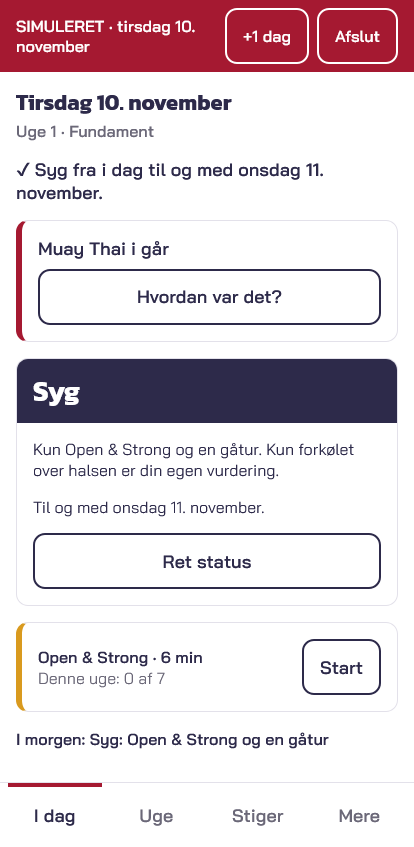
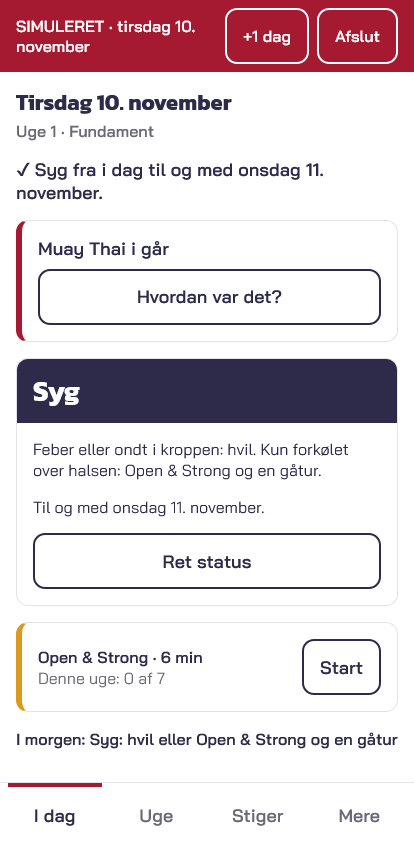
test: a trip corrected shorter, an illness extended with one »Afslut«, the club log on a travel day and a holiday Saturday to Monday (D70)
Claude-Session: https://claude.ai/code/session_01VvEZwGyT4vba1A14M2oTxQ

Changed region(s): [[0.087, 0.5218, 0.8406, 0.5832], [0.3188, 0.8595, 0.9565, 0.8902]]

diff --git a/e2e/status.spec.ts b/e2e/status.spec.ts
@@ -114,9 +114,9 @@ test('PLAN M3 tjekliste 5: »Syg« i to dage viser kun Open & Strong, og »Afslu
   await setStatus(page, 'Syg', '2026-11-11');
   await expect(screen.getByTestId('status-effects').locator('li')).toHaveText([
     'Syg fra i dag til og med onsdag 11. november.',
-    'Alle dage er røde: kun Open & Strong og en gåtur.',
-    'Ugerne under sygdom er ikke gennemførte.',
-    'Kun forkølet over halsen er din egen vurdering.',
+    'Feber eller ondt i kroppen: hvil. Kun forkølet over halsen: Open & Strong og en gåtur.',
+    'Ingen styrkepas og ingen motor de dage.',
+    'Syge- og feriedage gennemfører ikke ugen: den tæller kun med Styrke A, B eller rejsepasset på en anden dag.',
   ]);
   await expect(screen).toContainText('I dag, tirsdag 10. november');
   await expect(screen).toContainText('Onsdag 11. november');
@@ -134,14 +134,18 @@ test('PLAN M3 tjekliste 5: »Syg« i to dage viser kun Open & Strong, og »Afslu
   await expect(screen).toHaveCount(0);
   // I dag comes back at its top, with the »✓« line in sight.
   await expect(savedLine(page, '✓ Syg fra i dag til og med onsdag 11. november.')).toBeInViewport();
-  // Only Open & Strong and a walk: no session to start (R-ILL).
+  // The programme's text: rest with fever, Open & Strong and a walk with a cold – no session (R-ILL).
   await expect(card.locator('h1')).toHaveText('Syg');
-  await expect(card).toContainText('Kun Open & Strong og en gåtur.');
+  await expect(card).toContainText(
+    'Feber eller ondt i kroppen: hvil. Kun forkølet over halsen: Open & Strong og en gåtur.',
+  );
   await expect(card).toContainText('Til og med onsdag 11. november.');
   await expect(card.getByTestId('start-session')).toHaveCount(0);
   await expect(card.getByTestId('status-change')).toHaveText('Ret status');
   await expect(page.getByTestId('os-start')).toBeVisible();
-  await expect(page.locator('.tomorrow')).toHaveText('I morgen: Syg: Open & Strong og en gåtur');
+  await expect(page.locator('.tomorrow')).toHaveText(
+    'I morgen: Syg: hvil eller Open & Strong og en gåtur',
+  );
   await expectClean(page, 'I dag syg');
   await page.screenshot({
     path: 'screenshots/i-dag-syg.png',
@@ -350,6 +354,10 @@ test('rejse viser rejsepasset på Styrke-dagene, og klubben lukket viser kamp-ru
     'Klubben lukket til og med lørdag 14. november',
   ]);
   await expect(items.getByTestId('status-end')).toHaveText(['Afslut', 'Afslut']);
+  await expect(items.locator('.muted')).toHaveText([
+    'Afslut, så gælder den almindelige plan fra i dag, og klubben er stadig lukket.',
+    'Afslut, så har Muay Thai-dagene Muay Thai igen fra i dag.',
+  ]);
   await expectClean(page, 'Status med to statusser');
   await page.screenshot({
     path: 'screenshots/status-liste.png',
@@ -391,7 +399,8 @@ test('S-MOVE-05: »Flyt« tilbyder ingen syge- eller feriedage, men en rejsedag 
   await expect(page.getByTestId('status-effects').locator('li')).toHaveText([
     'Ferie fra lørdag 14. november til og med søndag 15. november.',
     'Hvile: ingen pas, og Open & Strong er valgfri.',
-    'Ugerne er ikke gennemførte. Vil du træne i ferien, så sæt ikke ferie.',
+    'Syge- og feriedage gennemfører ikke ugen: den tæller kun med Styrke A, B eller rejsepasset på en anden dag.',
+    'Vil du træne i ferien, så sæt ikke ferie.',
   ]);
   await page.getByTestId('status-save').click();
   await page.locator('.rest-of-week summary').click();
@@ -400,7 +409,9 @@ test('S-MOVE-05: »Flyt« tilbyder ingen syge- eller feriedage, men en rejsedag 
     'Lørdag: Ferie: hvile',
     'Søndag: Ferie: hvile',
   ]);
-  await expect(page.locator('.tomorrow')).toHaveText('I morgen: Syg: Open & Strong og en gåtur');
+  await expect(page.locator('.tomorrow')).toHaveText(
+    'I morgen: Syg: hvil eller Open & Strong og en gåtur',
+  );
 
   // Only Wednesday as the short version (S-MOVE-05).
   await missed.getByRole('button', { name: 'Flyt', exact: true }).click();
@@ -476,6 +487,172 @@ test('PLAN M3 tjekliste 3: to uger uden pas gentager den sidste gennemførte uge
   await expect(absence).toBeVisible();
   await tab(page, 'Stiger');
   await expect(page.locator('.ladder-row', { hasText: 'Ben · trin 2' })).toBeVisible();
+  expect(await storedEventCount(page)).toBe(stored);
+});
+
+test('M1: en rejse rettet kortere gælder kun til den nye dag, »Afslut« siger, hvad der stadig gælder, og en forlænget sygdom har ét »Afslut« @date', async ({
+  page,
+}) => {
+  await openAt(page, MONDAY_MORNING);
+  await onboard(page);
+  const stored = await storedEventCount(page);
+  await startSimulation(page, '2026-11-10');
+  const card = page.getByTestId('main-card');
+  const status = page.getByTestId('status-card');
+
+  // A trip from Tuesday to Friday 20/11.
+  await page.getByTestId('status-open').click();
+  await setStatus(page, 'Rejse', '2026-11-20');
+  await page.getByTestId('status-save').click();
+  await expect(status.locator('.life-card-title')).toHaveText(
+    'Rejse til og med fredag 20. november',
+  );
+
+  // Wednesday: home on Friday 13 instead. The new status corrects the trip, and says so.
+  await nextDay(page, 'onsdag 11. november');
+  await status.getByTestId('status-change').click();
+  const screen = page.getByTestId('status');
+  await expect(screen.getByTestId('status-item').locator('.status-item-name')).toHaveText([
+    'Rejse til og med fredag 20. november',
+  ]);
+  await setStatus(page, 'Rejse', '2026-11-13');
+  await expect(screen.getByTestId('status-effects').locator('li')).toHaveText([
+    'Rejse til og med fredag 13. november.',
+    'Retter Rejse til og med fredag 20. november: nu til og med fredag 13. november.',
+    'Styrke-dagene får rejsepasset: 25 min med push-ups, rygsæk-row, split squats og 6 min EMOM.',
+    'Rejsepasset gennemfører ugen, men flytter ingen stiger.',
+  ]);
+  await blur(page);
+  await expectClean(page, 'Status, der retter en rejse');
+  await page.screenshot({
+    path: 'screenshots/status-ret.png',
+    scale: 'css',
+    animations: 'disabled',
+    fullPage: true,
+    style: IN_FLOW,
+  });
+  await screen.getByTestId('status-save').click();
+  await expect(savedLine(page, '✓ Rejse til og med fredag 13. november.')).toBeVisible();
+  await expect(status.locator('.life-card-title')).toHaveText(
+    'Rejse til og med fredag 13. november',
+  );
+
+  // Sick today on the trip: the newest applies, and »Afslut« says the trip still does.
+  await page.getByTestId('status-open').click();
+  await setStatus(page, 'Syg', '2026-11-11');
+  await expect(screen.getByTestId('status-effects')).toContainText(
+    'Gælder i stedet for Rejse de dage, de overlapper.',
+  );
+  await screen.getByTestId('status-save').click();
+  await expect(card.locator('h1')).toHaveText('Syg');
+  await card.getByTestId('status-change').click();
+  const sick = screen
+    .getByTestId('status-item')
+    .filter({ has: page.locator('.status-item-name', { hasText: /^Syg/ }) });
+  await expect(sick).toContainText(
+    'Afslut, så gælder Rejse stadig til og med fredag 13. november.',
+  );
+  await sick.getByTestId('status-end').click();
+  await expect(
+    savedLine(page, '✓ Syg er afsluttet. Rejse gælder stadig til og med fredag 13. november.'),
+  ).toBeVisible();
+  await expect(card.locator('h1')).toHaveText('Muay Thai');
+
+  // Tuesday 17/11: Styrke A, not the travel session.
+  for (const day of [
+    'torsdag 12. november',
+    'fredag 13. november',
+    'lørdag 14. november',
+    'søndag 15. november',
+    'mandag 16. november',
+    'tirsdag 17. november',
+  ]) {
+    await nextDay(page, day);
+  }
+  await expect(card.locator('h1')).toHaveText('Styrke A');
+  await expect(status).toHaveCount(0);
+
+  // Ill Tuesday–Wednesday, extended on Wednesday to Friday: one period, one »Afslut«.
+  await page.getByTestId('status-open').click();
+  await setStatus(page, 'Syg', '2026-11-18');
+  await screen.getByTestId('status-save').click();
+  await nextDay(page, 'onsdag 18. november');
+  await card.getByTestId('status-change').click();
+  await setStatus(page, 'Syg', '2026-11-20');
+  await expect(screen.getByTestId('status-effects')).toContainText(
+    'Retter Syg til og med i dag: nu til og med fredag 20. november.',
+  );
+  await screen.getByTestId('status-save').click();
+  await expect(savedLine(page, '✓ Syg til og med fredag 20. november.')).toBeVisible();
+  await expect(card).toContainText('Til og med fredag 20. november.');
+  await card.getByTestId('status-change').click();
+  await expect(screen.getByTestId('status-item')).toHaveCount(1);
+  await screen.getByTestId('status-end').click();
+  await expect(
+    savedLine(page, '✓ Syg er afsluttet. Fra i dag gælder den almindelige plan.'),
+  ).toBeVisible();
+  await expect(card.locator('h1')).toHaveText('Muay Thai');
+  expect(await storedEventCount(page)).toBe(stored);
+});
+
+test('L1: på en rejsedag står klubben, og »Hvordan var det?« spørges efter klubtiden @date', async ({
+  page,
+}) => {
+  // 20:45 in Copenhagen on Monday 9/11, after the club time.
+  await openAt(page, '2026-11-09T19:45:00Z');
+  await onboard(page);
+  const stored = await storedEventCount(page);
+  await startSimulation(page, '2026-11-11');
+  await page.getByTestId('status-open').click();
+  await setStatus(page, 'Rejse', '2026-11-11');
+  await page.getByTestId('status-save').click();
+  const card = page.getByTestId('main-card');
+  await expect(page.getByTestId('status-card').locator('.life-card-title')).toHaveText(
+    'Rejse i dag',
+  );
+  await expect(card.locator('h1')).toHaveText('Muay Thai');
+  await expect(card.getByTestId('club-log-open')).toHaveText('Hvordan var det?');
+  expect(await storedEventCount(page)).toBe(stored);
+});
+
+test('L5: ferie lørdag–mandag er hvile, også på klubdagene, og søndag er søndagstjekket med ferien over @date', async ({
+  page,
+}) => {
+  await openAt(page, MONDAY_MORNING);
+  await onboard(page);
+  const stored = await storedEventCount(page);
+  await startSimulation(page, '2026-11-14');
+  const card = page.getByTestId('main-card');
+  await page.getByTestId('status-open').click();
+  await setStatus(page, 'Ferie', '2026-11-16');
+  await page.getByTestId('status-save').click();
+  await expect(savedLine(page, '✓ Ferie fra i dag til og med mandag 16. november.')).toBeVisible();
+  await expect(card.locator('h1')).toHaveText('Ferie');
+  await expect(card).toContainText('Hvile. Open & Strong er valgfri.');
+  await expect(card).toContainText('Til og med mandag 16. november.');
+  await expect(card.getByTestId('status-change')).toHaveText('Ret status');
+  await expect(page.getByTestId('club-card')).toHaveCount(0);
+  await expectClean(page, 'I dag på ferie lørdag');
+  const row = (weekday: string) =>
+    page.locator('.week-day', { has: page.locator('.week-day-weekday', { hasText: weekday }) });
+  await tab(page, 'Uge');
+  await expect(row('Lørdag').locator('.chip')).toHaveText(['Ferie']);
+  await tab(page, 'I dag');
+
+  // Sunday: the Sunday check is the day's card, with the holiday in a card over it.
+  await nextDay(page, 'søndag 15. november');
+  await expect(card.locator('h1')).toHaveText('Søndagstjek');
+  await expect(page.getByTestId('status-card').locator('.life-card-title')).toHaveText(
+    'Ferie til og med mandag 16. november',
+  );
+  await expect(page.getByTestId('club-card')).toHaveCount(0);
+
+  // Monday, a club day: rest, no Muay Thai.
+  await nextDay(page, 'mandag 16. november');
+  await expect(card.locator('h1')).toHaveText('Ferie');
+  await expect(card).toContainText('Kun i dag.');
+  await tab(page, 'Uge');
+  await expect(row('Mandag').locator('.chip')).toHaveText(['Ferie']);
   expect(await storedEventCount(page)).toBe(stored);
 });
 
